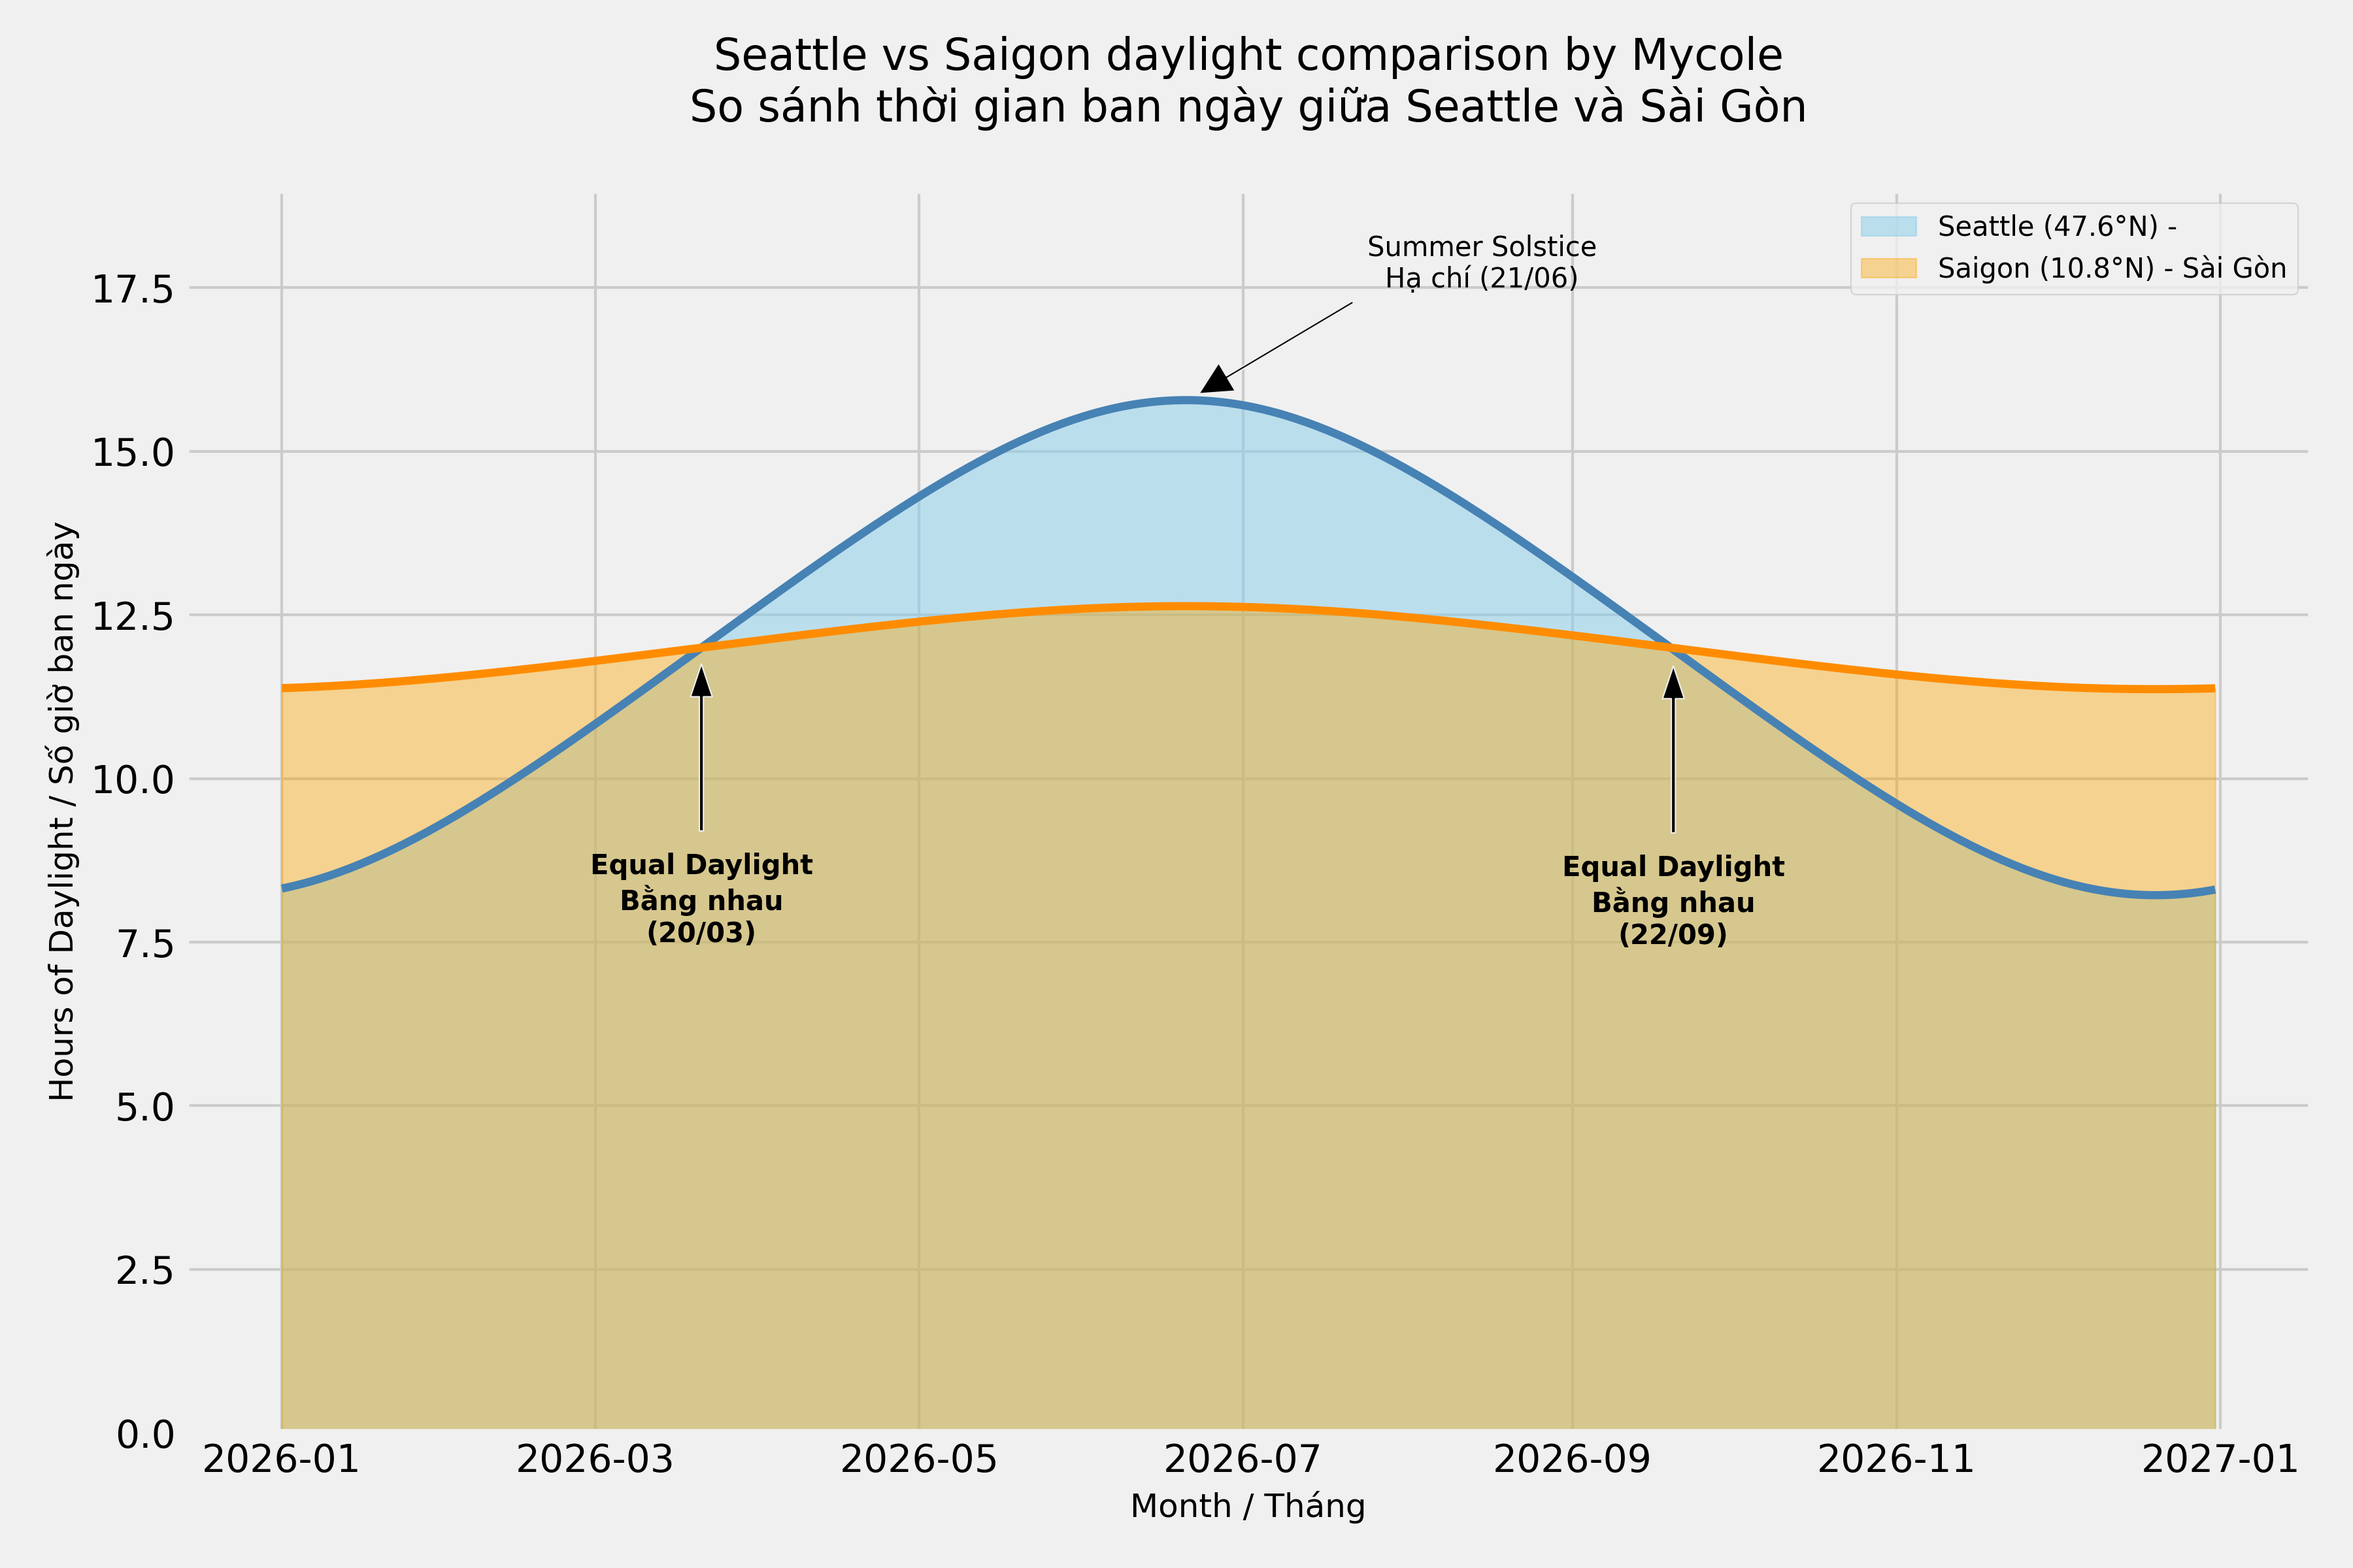
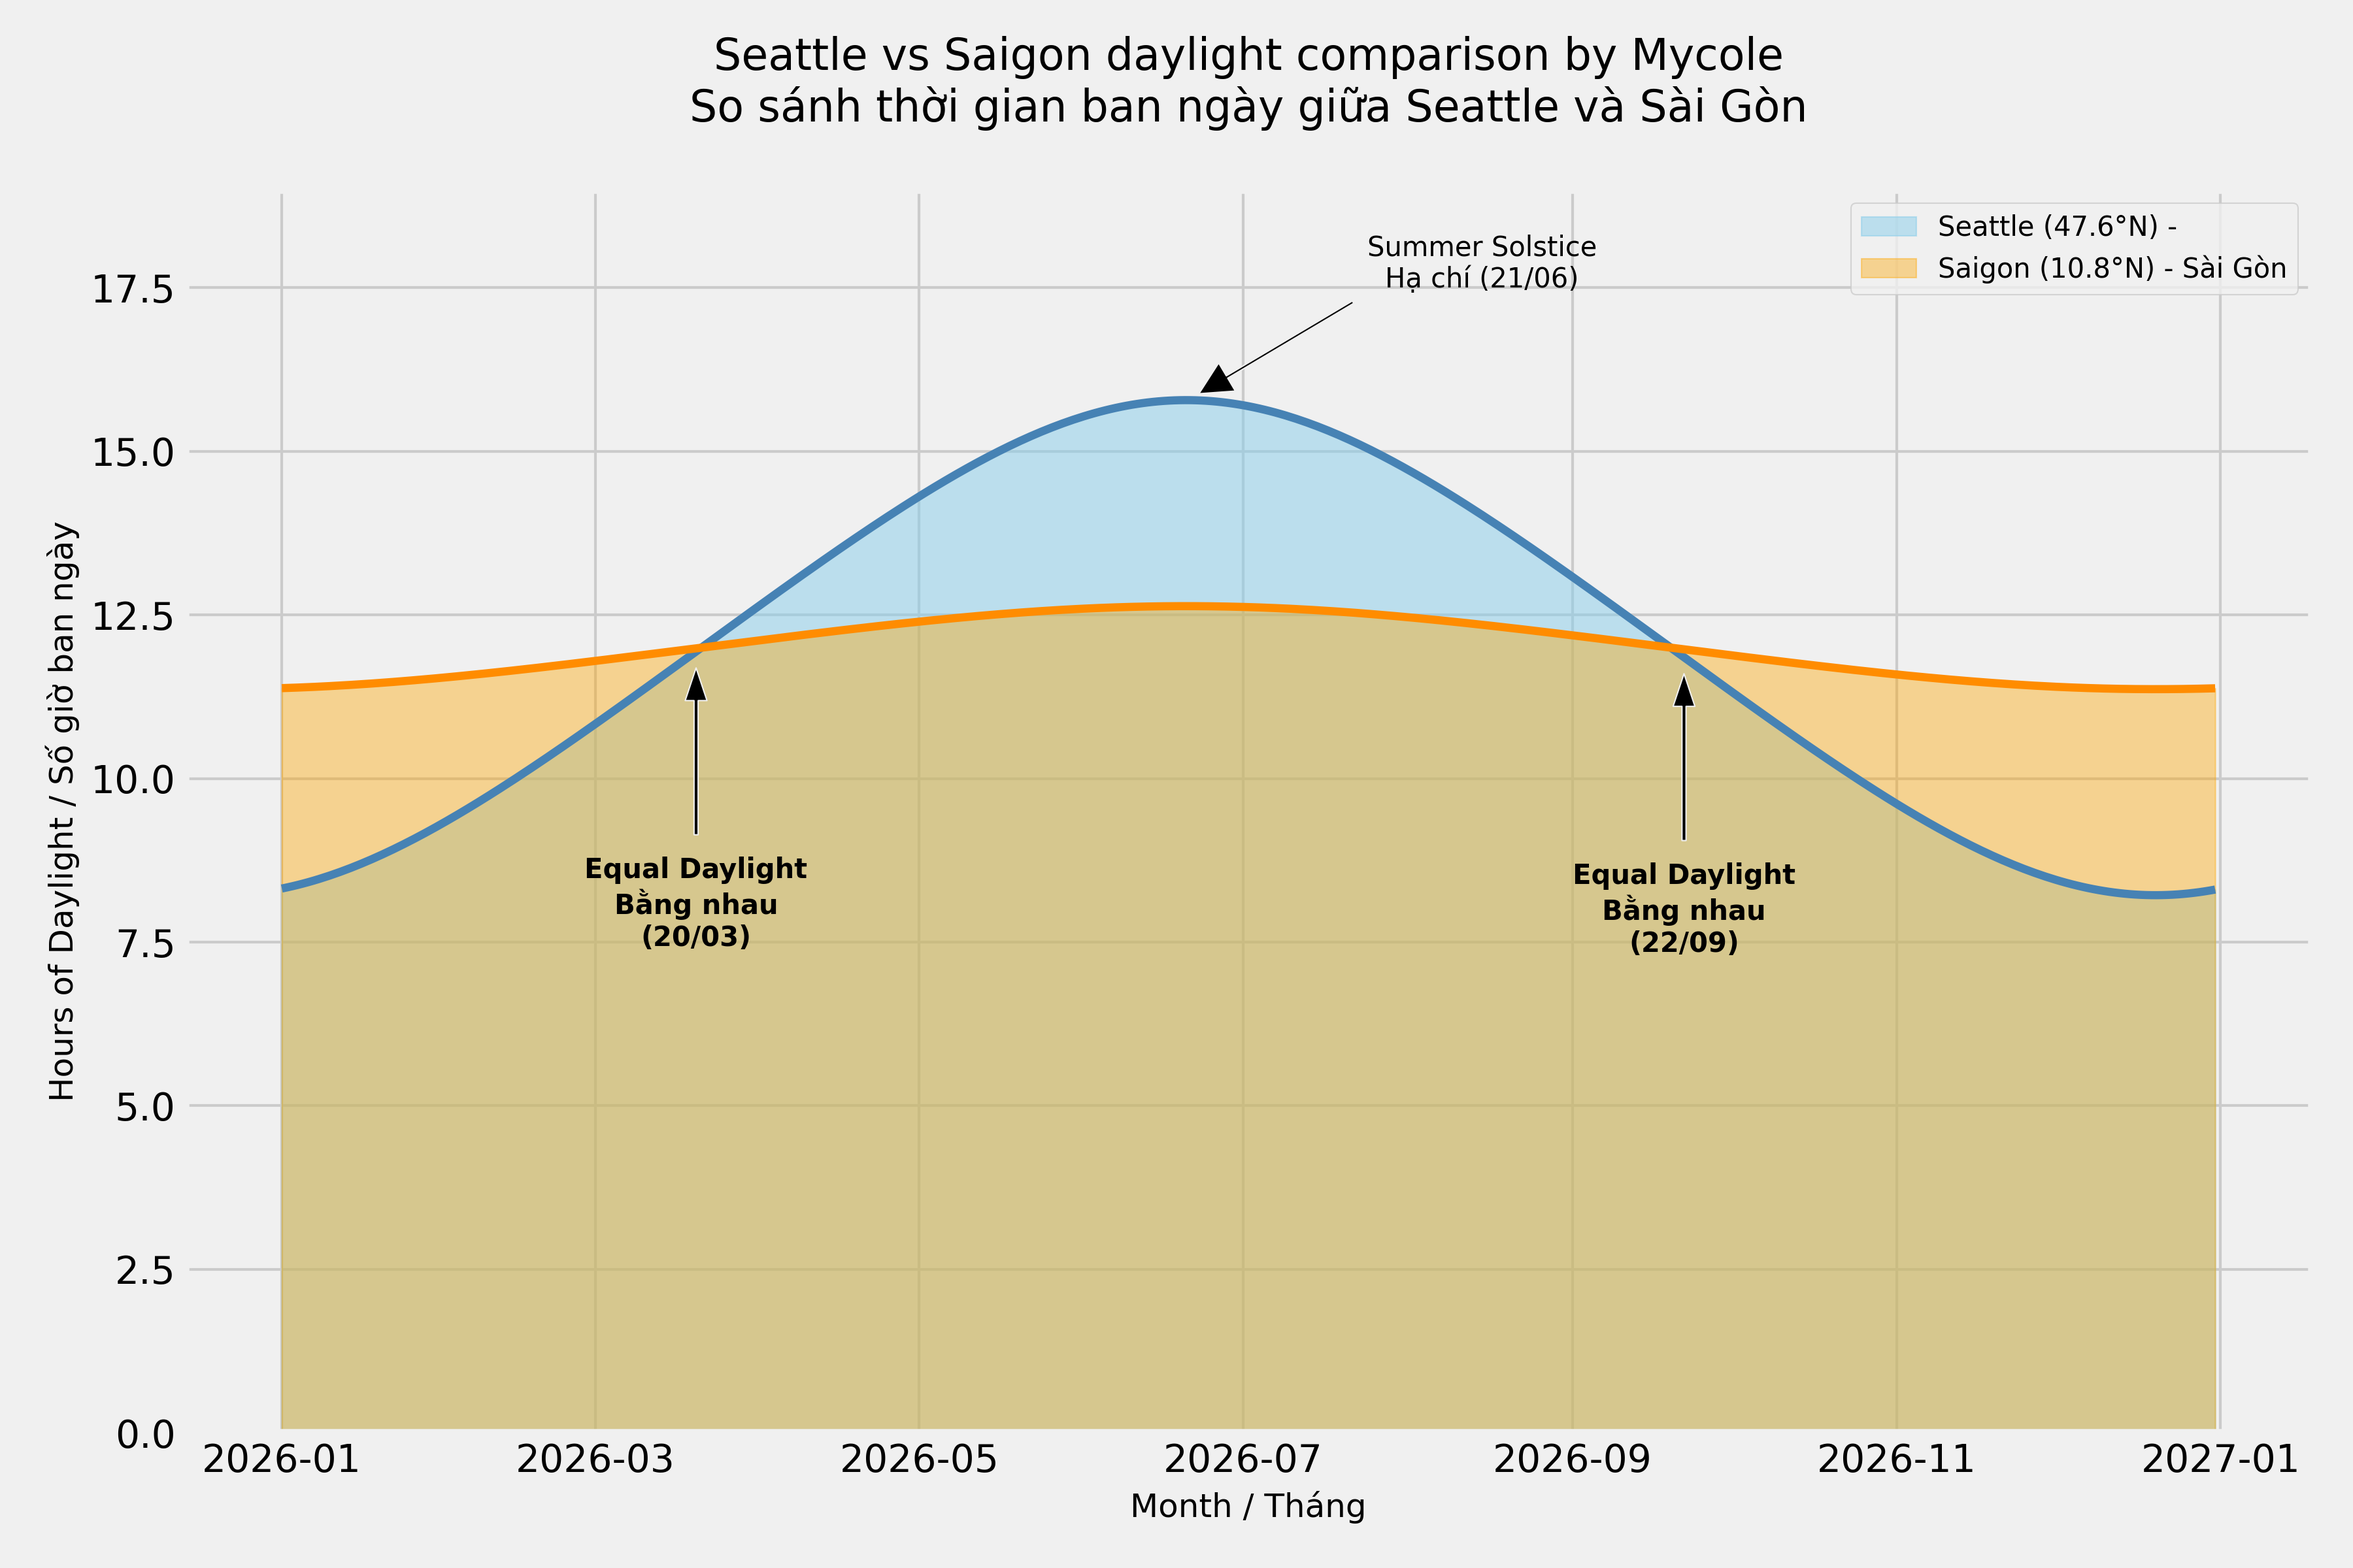
more precision

Changed region(s): [[0.6533, 0.4375, 0.7778, 0.625], [0.2489, 0.4375, 0.3422, 0.625]]

diff --git a/p.py b/p.py
@@ -3,82 +3,80 @@ import matplotlib.pyplot as plt
 import numpy as np
 import os
 
-def calculate_daylight_hours(latitude, day_of_year):
+def calculate_precise_daylight(latitude, day_of_year):
     """
-    Standard formula for daylight duration:
-    Uses the declination of the sun and the latitude to find the hour angle.
+    High-precision daylight calculation based on NOAA solar algorithms.
+    Accounts for atmospheric refraction (-0.833 degrees).
     """
-    declination = 23.45 * np.sin(np.radians((360 / 365) * (day_of_year - 80)))
+    # 1. Fractional year in radians
+    gamma = (2 * np.pi / 365) * (day_of_year - 1)
+    
+    # 2. Solar declination angle (radians) - Precise NOAA Formula
+    decl = 0.006918 - 0.399912 * np.cos(gamma) + 0.070257 * np.sin(gamma) - \
+           0.006758 * np.cos(2 * gamma) + 0.000907 * np.sin(2 * gamma) - \
+           0.002697 * np.cos(3 * gamma) + 0.00148 * np.sin(3 * gamma)
+    
+    # 3. Hour angle for sunrise/sunset
+    # Standard zenith for sunrise/sunset is 90.833 degrees (includes refraction)
+    zenith_rad = np.radians(90.833)
     lat_rad = np.radians(latitude)
-    decl_rad = np.radians(declination)
-    cos_h = -np.tan(lat_rad) * np.tan(decl_rad)
-    cos_h = np.clip(cos_h, -1, 1)
-    hour_angle = np.degrees(np.arccos(cos_h))
-    return (2 / 15) * hour_angle
+    
+    cos_ha = (np.cos(zenith_rad) / (np.cos(lat_rad) * np.cos(decl))) - (np.tan(lat_rad) * np.tan(decl))
+    cos_ha = np.clip(cos_ha, -1, 1) # Prevents errors at poles
+    
+    ha_deg = np.degrees(np.arccos(cos_ha))
+    
+    # Daylight hours = (2 * hour_angle) / 15 degrees per hour
+    return (2 * ha_deg) / 15
 
-# 1. Setup Data
+# 1. Setup Data for 2026
 days = np.arange(1, 366)
 dates = pd.to_datetime(days - 1, unit='D', origin='2026-01-01')
 
 seattle_lat = 47.6062
 saigon_lat = 10.8231
 
-seattle_hours = np.array([calculate_daylight_hours(seattle_lat, d) for d in days])
-saigon_hours = np.array([calculate_daylight_hours(saigon_lat, d) for d in days])
-
-# Find intersection points where daylight is equal
-diff = np.abs(seattle_hours - saigon_hours)
-idx1 = np.argmin(diff[0:150])           # Spring Equinox search
-idx2 = np.argmin(diff[150:365]) + 150   # Autumn Equinox search
+seattle_hours = np.array([calculate_precise_daylight(seattle_lat, d) for d in days])
+saigon_hours = np.array([calculate_precise_daylight(saigon_lat, d) for d in days])
 
 # 2. Create Plot
 plt.style.use('fivethirtyeight')
 fig, ax = plt.subplots(figsize=(12, 8))
 
-# Plotting the area charts
-ax.fill_between(dates, seattle_hours, color="skyblue", alpha=0.5, 
-                label="Seattle (47.6°N) - ")
+# Plotting area charts
+ax.fill_between(dates, seattle_hours, color="skyblue", alpha=0.5, label="Seattle (47.6°N)")
 ax.plot(dates, seattle_hours, color="steelblue", lw=3)
 
-ax.fill_between(dates, saigon_hours, color="orange", alpha=0.4, 
-                label="Saigon (10.8°N) - Sài Gòn")
+ax.fill_between(dates, saigon_hours, color="orange", alpha=0.4, label="Saigon (10.8°N) - Sài Gòn")
 ax.plot(dates, saigon_hours, color="darkorange", lw=3)
 
 # 3. Bilingual Titles and Labels
 title_str = "Seattle vs Saigon daylight comparison by Mycole\nSo sánh thời gian ban ngày giữa Seattle và Sài Gòn"
 ax.set_title(title_str, fontsize=16, pad=25)
-
 ax.set_ylabel("Hours of Daylight / Số giờ ban ngày", fontsize=12)
 ax.set_xlabel("Month / Tháng", fontsize=12)
 ax.set_ylim(0, 19)
 ax.legend(loc="upper right", fontsize=10)
 
-# 4. Add Annotations for the "Same Hours" points (Equinoxes)
+# 4. Annotations for the "Same Hours" points (Equinoxes)
+# March 20 is Day 79 (index 78) and Sept 22 is Day 265 (index 264)
+equinox_indices = [78, 264]
+equinox_dates = ["20/03", "22/09"]
 label_intersection = "Equal Daylight\nBằng nhau"
-# 4. Add Annotations for the "Same Hours" points (Equinoxes)
-# Using calculated dates for 2026: March 20 and Sept 22
-intersection_dates = ["20/03", "22/09"] 
 
-for i, idx in enumerate([idx1, idx2]):
-    # Formats the bilingual label with the specific date
-    date_label = f"{label_intersection}\n({intersection_dates[i]})"
-    
-    ax.annotate(date_label, 
+for i, idx in enumerate(equinox_indices):
+    ax.annotate(f"{label_intersection}\n({equinox_dates[i]})", 
                 xy=(dates[idx], seattle_hours[idx]), 
-                xytext=(dates[idx], seattle_hours[idx] - 4.5), # Adjusted slightly for text room
+                xytext=(dates[idx], seattle_hours[idx] - 4.5),
                 arrowprops=dict(facecolor='black', shrink=0.08, width=1.5, headwidth=8),
                 ha='center', fontsize=10, fontweight='bold', color='black')
 
-# Add marker for the Summer Solstice / Hạ chí
+# Summer Solstice (June 21 is index 171)
 ax.annotate('Summer Solstice\nHạ chí (21/06)', 
-            xy=(pd.Timestamp('2026-06-21'), 15.8), 
+            xy=(pd.Timestamp('2026-06-21'), seattle_hours[171]), 
             xytext=(pd.Timestamp('2026-08-15'), 17.5),
-            arrowprops=dict(facecolor='black', shrink=0.05, width=1),
+            arrowprops=dict(facecolor='black', shrink=0.05, width=1.5, headwidth=8),
             ha='center', fontsize=10)
 
 plt.tight_layout()
-
-# 5. Save
-filename = "daylight_intersection.png"
-plt.savefig(filename, dpi=300)
-print(f"Success! Image saved to: {os.path.abspath(filename)}")
+plt.savefig("daylight_precise_2026.png", dpi=300)
